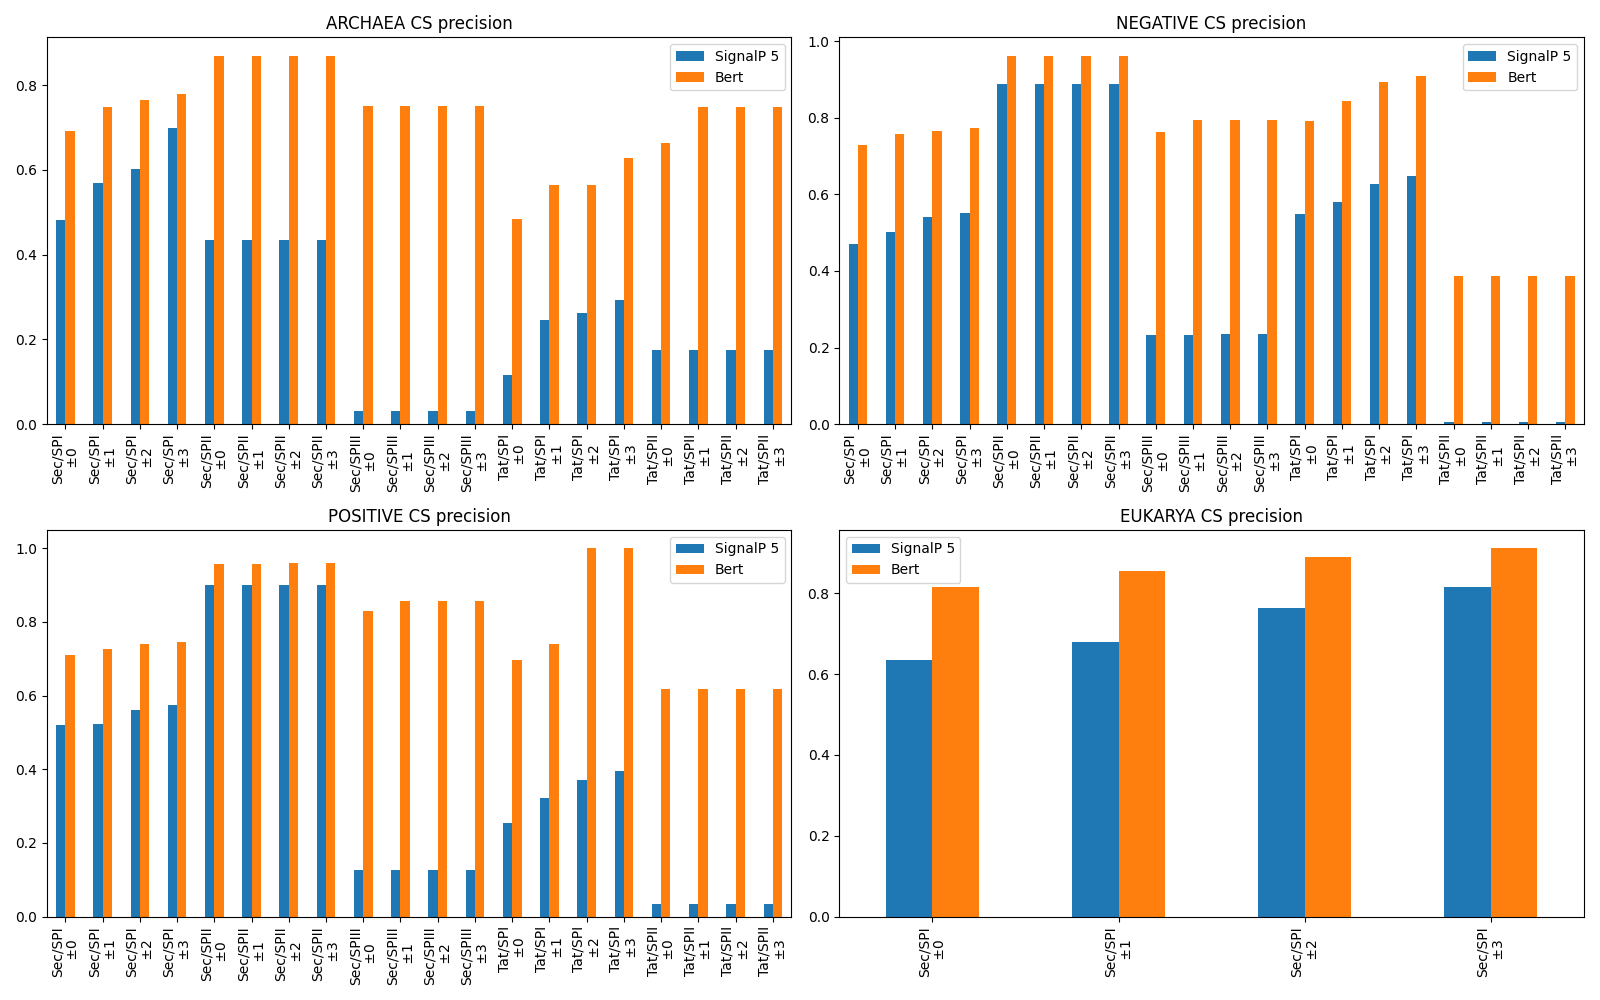
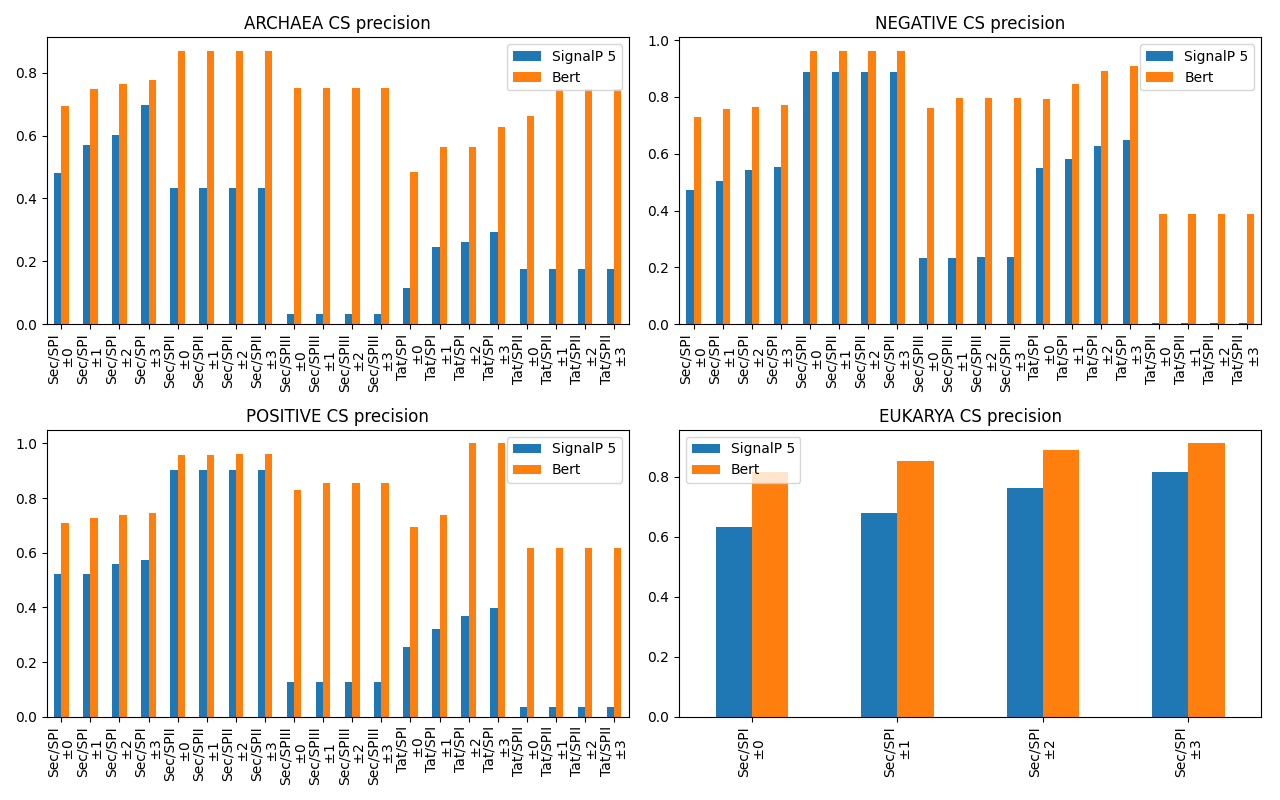
rescaled metrics plots

diff --git a/sp_prediction_experiments/signalp_6_evaluation_scripts/make_figures.py b/sp_prediction_experiments/signalp_6_evaluation_scripts/make_figures.py
@@ -293,12 +293,12 @@ def main():
 
         df['type'] = df['type'].apply(lambda x: nice_label_dict[x])
 
-        plt.figure(figsize = (12,8))
+        plt.figure(figsize = (10.2,6.8))
 
         ax= plt.subplot(2,1,1)
 
-        df_plot = df.loc[df['metric'] == 'mcc1'][['kingdom', 'type','SignalP 5', 'Bert']]#, 'crossval_std']]
-        df_plot = df_plot.set_index(df_plot['kingdom'] + '\n' + df_plot['type'])
+        df_plot = df.loc[df['metric'] == 'mcc1'][['kingdom', 'type','SignalP 5', 'Bert']]
+        df_plot = df_plot.set_index(df_plot['kingdom'].str.slice(0,3) + '\n' + df_plot['type']) #only take first 3 letters of kingdom
         df_plot = df_plot.sort_index()
 
         df_plot = df_plot.rename({'crossval_mean': 'Bert-CRF'}, axis =1)
@@ -308,8 +308,8 @@ def main():
 
         ax=plt.subplot(2,1,2)
         df_plot = df.loc[df['kingdom'].isin(['ARCHAEA','POSITIVE', 'NEGATIVE'])]
-        df_plot = df_plot.loc[df['metric'] == 'mcc2'][['kingdom', 'type','SignalP 5', 'Bert']]#, 'crossval_std']]
-        df_plot = df_plot.set_index(df_plot['kingdom'] + '\n' + df_plot['type'])
+        df_plot = df_plot.loc[df['metric'] == 'mcc2'][['kingdom', 'type','SignalP 5', 'Bert']]
+        df_plot = df_plot.set_index(df_plot['kingdom'].str.slice(0,3) + '\n' + df_plot['type']) #only take first 3 letters of kingdom
         df_plot = df_plot.sort_index()
 
         df_plot = df_plot.rename({'crossval_mean': 'Bert-CRF'}, axis =1)
@@ -321,11 +321,11 @@ def main():
         plt.savefig(os.path.join(args.output_dir, 'mcc.png'))
 
 
-        df_plot = df.loc[df['metric'] == 'recall'][['kingdom', 'type', 'window', 'SignalP 5', 'Bert']]#, 'crossval_std']]
+        df_plot = df.loc[df['metric'] == 'recall'][['kingdom', 'type', 'window', 'SignalP 5', 'Bert']]
         df_plot = df_plot.set_index(df_plot['type'] + '\n ±' + df_plot['window'].astype(int).astype(str))
         df_plot = df_plot.sort_index()
 
-        plt.figure(figsize=(16,10))
+        plt.figure(figsize=(12.8,8))
         for idx, kingdom in enumerate(df_plot['kingdom'].unique()):
             ax = plt.subplot(2,2,idx+1)
             df_plot.loc[df_plot['kingdom'] == kingdom][['SignalP 5', 'Bert']].plot(kind='bar', ax = ax, title= kingdom + ' CS recall', rot=90)
@@ -338,7 +338,7 @@ def main():
         df_plot = df_plot.set_index(df_plot['type'] + '\n ±' + df_plot['window'].astype(int).astype(str))
         df_plot = df_plot.sort_index()
 
-        plt.figure(figsize=(16,10))
+        plt.figure(figsize=(12.8,8))
         for idx, kingdom in enumerate(df_plot['kingdom'].unique()):
             ax = plt.subplot(2,2,idx+1)
             df_plot.loc[df_plot['kingdom'] == kingdom][['SignalP 5', 'Bert']].plot(kind='bar', ax = ax, title= kingdom + ' CS precision', rot=90)
@@ -883,12 +883,12 @@ def main():
 
         df['type'] = df['type'].apply(lambda x: nice_label_dict[x])
 
-        plt.figure(figsize = (12,8))
+        plt.figure(figsize = (10.2,6.8))
 
         ax= plt.subplot(2,1,1)
 
-        df_plot = df.loc[df['metric'] == 'mcc1'][['kingdom', 'type','Correct', 'Randomized']]#, 'crossval_std']]
-        df_plot = df_plot.set_index(df_plot['kingdom'] + '\n' + df_plot['type'])
+        df_plot = df.loc[df['metric'] == 'mcc1'][['kingdom', 'type','Correct', 'Randomized']]
+        df_plot = df_plot.set_index(df_plot['kingdom'].str.slice(0,3) + '\n' + df_plot['type']) #only take first 3 letters of kingdom
         df_plot = df_plot.sort_index()
 
 
@@ -897,8 +897,8 @@ def main():
 
         ax=plt.subplot(2,1,2)
         df_plot = df.loc[df['kingdom'].isin(['ARCHAEA','POSITIVE', 'NEGATIVE'])]
-        df_plot = df_plot.loc[df['metric'] == 'mcc2'][['kingdom', 'type','Correct', 'Randomized']]#, 'crossval_std']]
-        df_plot = df_plot.set_index(df_plot['kingdom'] + '\n' + df_plot['type'])
+        df_plot = df_plot.loc[df['metric'] == 'mcc2'][['kingdom', 'type','Correct', 'Randomized']]
+        df_plot = df_plot.set_index(df_plot['kingdom'].str.slice(0,3) + '\n' + df_plot['type']) #only take first 3 letters of kingdom
         df_plot = df_plot.sort_index()
 
 
@@ -909,9 +909,9 @@ def main():
         plt.savefig(os.path.join(args.output_dir, 'signalp5_randomized_kingdoms_mcc.png'))
 
 
-        df_plot = df.loc[df['metric'] == 'recall'][['kingdom', 'type', 'window', 'Correct', 'Randomized']]#, 'crossval_std']]
+        df_plot = df.loc[df['metric'] == 'recall'][['kingdom', 'type', 'window', 'Correct', 'Randomized']]
         df_plot = df_plot.set_index(df_plot['type'] + '\n ±' + df_plot['window'].astype(int).astype(str))
-        plt.figure(figsize=(16,10))
+        plt.figure(figsize=(12.8, 8))
         for idx, kingdom in enumerate(df_plot['kingdom'].unique()):
             ax = plt.subplot(2,2,idx+1)
             df_plot.loc[df_plot['kingdom'] == kingdom][['Correct', 'Randomized']].plot(kind='bar', ax = ax, title= kingdom + ' CS recall', rot=90)
@@ -920,11 +920,11 @@ def main():
         plt.savefig(os.path.join(args.output_dir, 'signalp5_randomized_kingdoms_recall.png'))
 
 
-        df_plot = df.loc[df['metric'] == 'precision'][['kingdom', 'type', 'window', 'Correct', 'Randomized']]#, 'crossval_std']]
+        df_plot = df.loc[df['metric'] == 'precision'][['kingdom', 'type', 'window', 'Correct', 'Randomized']]
         df_plot = df_plot.set_index(df_plot['type'] + '\n ±' + df_plot['window'].astype(int).astype(str))
         df_plot = df_plot.sort_index()
 
-        plt.figure(figsize=(16,10))
+        plt.figure(figsize=(12.8,8))
         for idx, kingdom in enumerate(df_plot['kingdom'].unique()):
             ax = plt.subplot(2,2,idx+1)
             df_plot.loc[df_plot['kingdom'] == kingdom][['Correct', 'Randomized']].plot(kind='bar', ax = ax, title= kingdom + ' CS precision', rot=90)
@@ -954,25 +954,23 @@ def main():
 
         df['type'] = df['type'].apply(lambda x: nice_label_dict[x])
 
-        plt.figure(figsize = (12,8))
+        plt.figure(figsize = (10.2,6.8))
 
         ax= plt.subplot(2,1,1)
 
         df_plot = df.loc[df['metric'] == 'mcc1'][['kingdom', 'type','Correct', 'Randomized']]#, 'crossval_std']]
-        df_plot = df_plot.set_index(df_plot['kingdom'] + '\n' + df_plot['type'])
+        df_plot = df_plot.set_index(df_plot['kingdom'].str.slice(0,3) + '\n' + df_plot['type']) #only take first 3 letters of kingdom
         df_plot = df_plot.sort_index()
 
-        #df_plot = df_plot.rename({'crossval_mean': 'Bert-CRF'}, axis =1)
 
         df_plot.plot(kind='bar', ax=ax, ylim =(0,1), rot=0).legend(loc='lower left')
         plt.title('Bert MCC 1')
 
         ax=plt.subplot(2,1,2)
         df_plot = df.loc[df['kingdom'].isin(['ARCHAEA','POSITIVE', 'NEGATIVE'])]
-        df_plot = df_plot.loc[df['metric'] == 'mcc2'][['kingdom', 'type','Correct', 'Randomized']]#, 'crossval_std']]
-        df_plot = df_plot.set_index(df_plot['kingdom'] + '\n' + df_plot['type'])
+        df_plot = df_plot.loc[df['metric'] == 'mcc2'][['kingdom', 'type','Correct', 'Randomized']]
+        df_plot = df_plot.set_index(df_plot['kingdom'].str.slice(0,3) + '\n' + df_plot['type']) #only take first 3 letters of kingdom
 
-        #df_plot = df_plot.rename({'crossval_mean': 'Bert-CRF'}, axis =1)
 
         df_plot.plot(kind='bar', ax=ax, ylim =(0,1), rot=0).legend(loc='lower left')
         plt.title('Bert MCC 2')
@@ -980,11 +978,12 @@ def main():
         plt.tight_layout()
         plt.savefig(os.path.join(args.output_dir, 'bert_randomized_kingdoms_mcc.png'))
 
+
         df_plot = df.loc[df['metric'] == 'recall'][['kingdom', 'type', 'window', 'Correct', 'Randomized']]#, 'crossval_std']]
         df_plot = df_plot.set_index(df_plot['type'] + '\n ±' + df_plot['window'].astype(int).astype(str))
         df_plot = df_plot.sort_index()
 
-        plt.figure(figsize=(16,10))
+        plt.figure(figsize=(12.8,8))
         for idx, kingdom in enumerate(df_plot['kingdom'].unique()):
             ax = plt.subplot(2,2,idx+1)
             df_plot.loc[df_plot['kingdom'] == kingdom][['Correct', 'Randomized']].plot(kind='bar', ax = ax, title= kingdom + ' CS recall', rot=90)
@@ -997,7 +996,7 @@ def main():
         df_plot = df_plot.set_index(df_plot['type'] + '\n ±' + df_plot['window'].astype(int).astype(str))
         df_plot = df_plot.sort_index()
 
-        plt.figure(figsize=(16,10))
+        plt.figure(figsize=(12.8,8))
         for idx, kingdom in enumerate(df_plot['kingdom'].unique()):
             ax = plt.subplot(2,2,idx+1)
             df_plot.loc[df_plot['kingdom'] == kingdom][['Correct', 'Randomized']].plot(kind='bar', ax = ax, title= kingdom + ' CS precision', rot=90)
